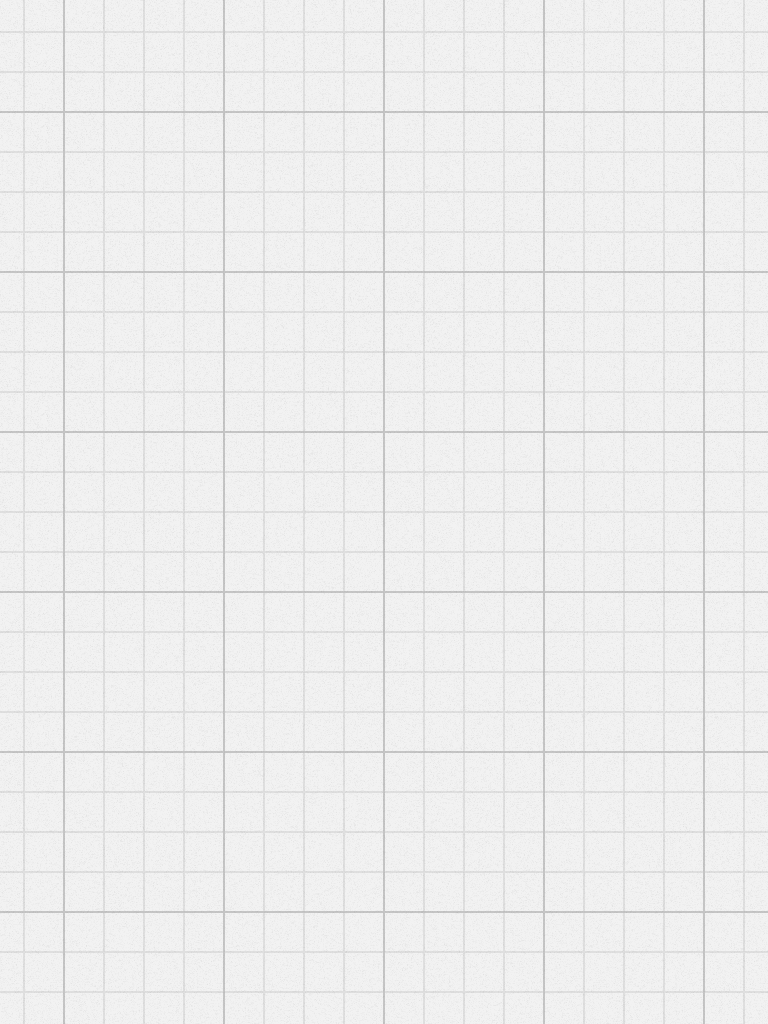
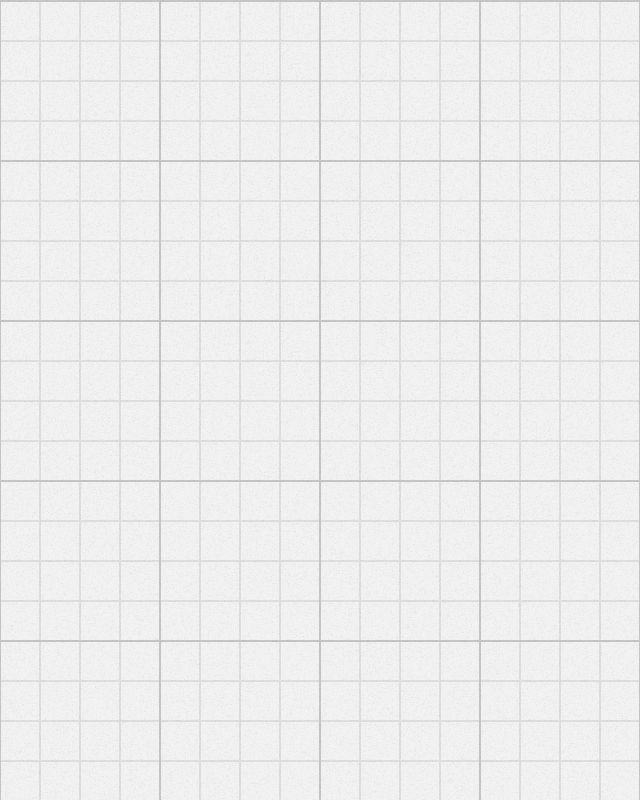
fix: make background symmetrical

diff --git a/web/scss/paper.scss b/web/scss/paper.scss
@@ -4,7 +4,7 @@
   -webkit-transform-origin: 50% 50%;
   cursor: move;
   background: url(/images/bg.png);
-  background-size: 384px 512px;
+  background-size: 320px 400px;
   width: 10000px;
   height: 6000px;
   transform-origin: 0% 0%;
